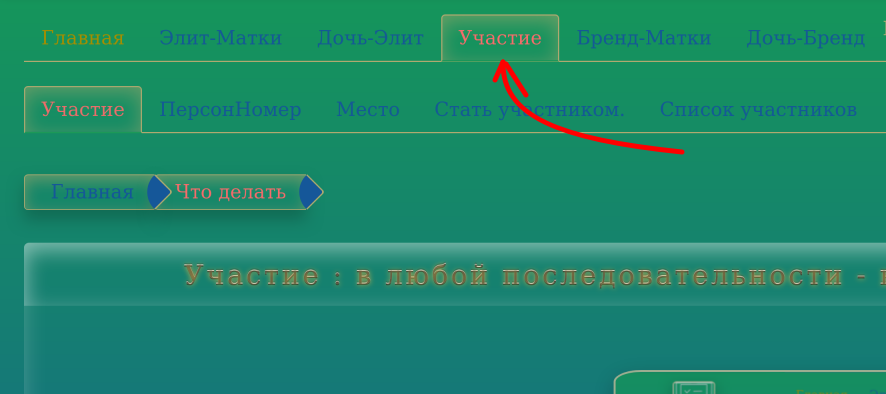
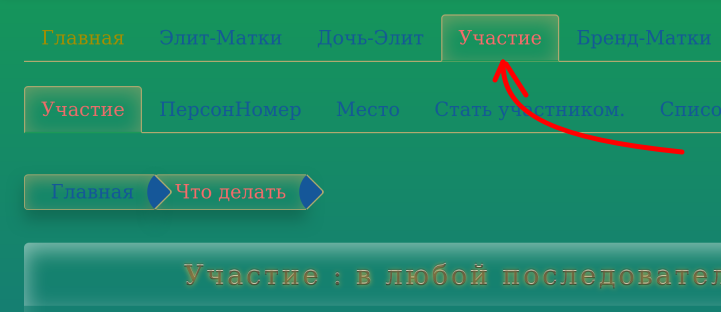
uchastie +++

Changed region(s): [[0.0, 0.0288, 1.0, 1.0], [0.3662, 0.2596, 0.4577, 0.2885]]

diff --git a/manager/assets/css/foto-fon-help/uchasties/_uchastie.scss b/manager/assets/css/foto-fon-help/uchasties/_uchastie.scss
@@ -10,8 +10,8 @@
 
 .glav-uch {
   background-image: url('../../../../assets/images/foto-for-help/glav-uch.png');
-  width: 886px;
-  height: 394px;
+  width: 721px;
+  height: 312px;
 }
 
 .persona-f {
